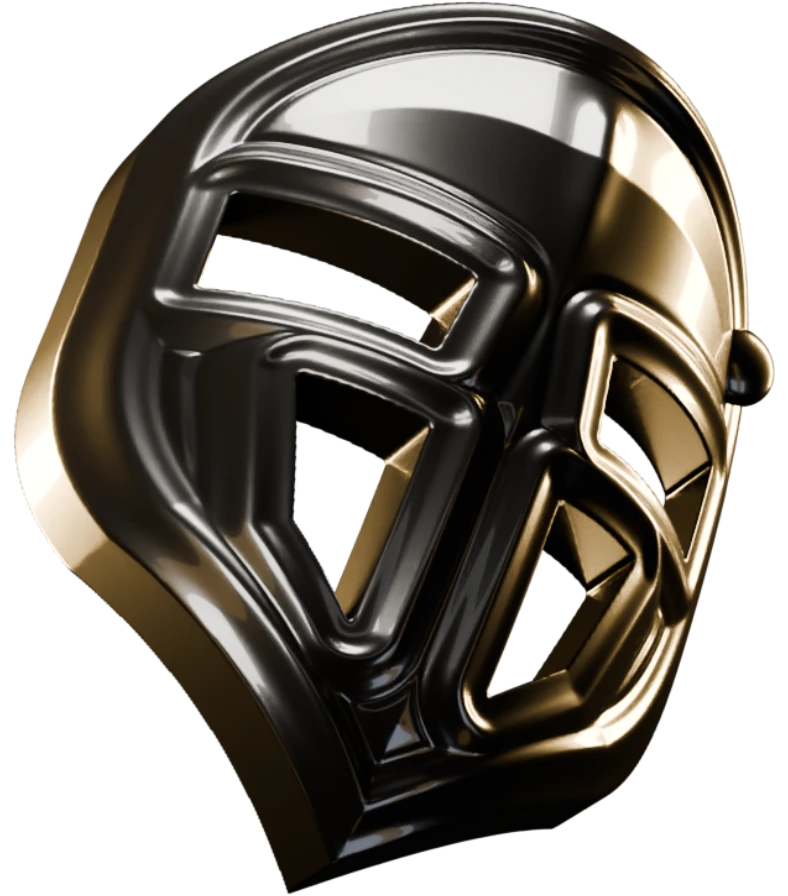
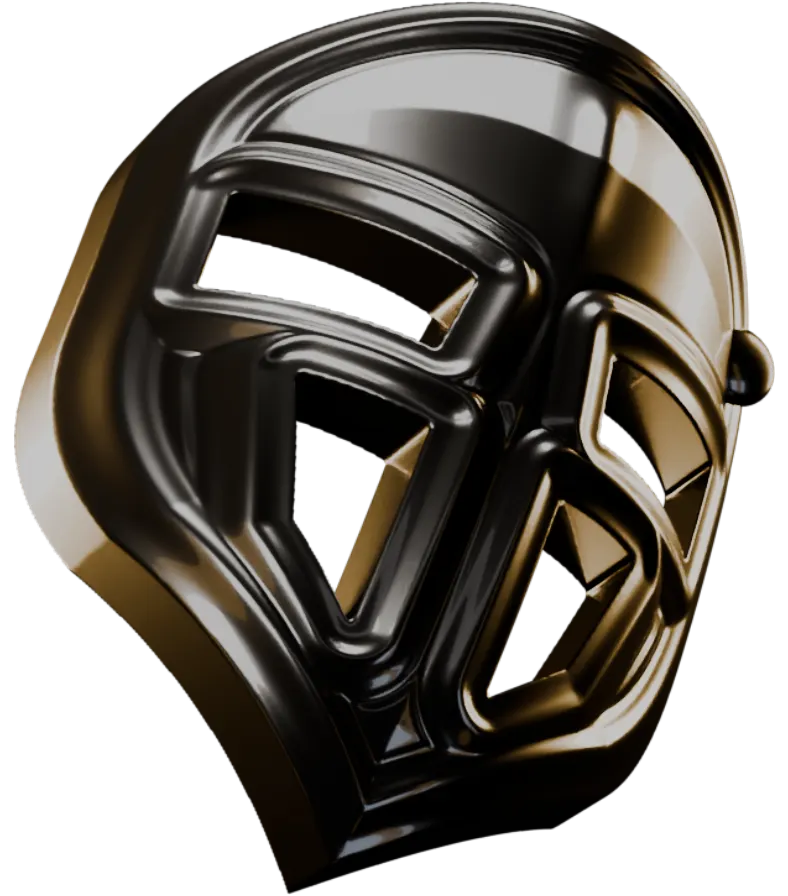
Masks v2: stills within the galaxy's picture budget
The re-rendered stills came out at 864 KB and took the galaxy's pictures (tests/galaxy.test.js) over 1.5 MB.
masks.py --web now saves through the scene's output settings, the only path where Blender honours the WebP quality,
at 78: the ten stills are 587 KB (were 565 KB before the new masks).

diff --git a/scripts/blender/masks.py b/scripts/blender/masks.py
@@ -397,10 +397,13 @@ def web_still(src, dest, lay):
     canvas[y0:y0 + sh, x0:x0 + sw] = small
     out = bpy.data.images.new('still', cw, ch, alpha=True)
     out.pixels[:] = canvas.ravel()
-    out.filepath_raw = dest
-    out.file_format = 'WEBP'
-    bpy.context.scene.render.image_settings.quality = 88
-    out.save()
+    # Saved through the scene's output settings, the only way the WebP quality is honoured. The galaxy's pictures,
+    # these among them, have a size budget (tests/galaxy.test.js).
+    st = bpy.context.scene.render.image_settings
+    st.file_format = 'WEBP'
+    st.color_mode = 'RGBA'
+    st.quality = 78
+    out.save_render(dest, scene=bpy.context.scene)
 
 
 def bake_image(name, colour, size):
